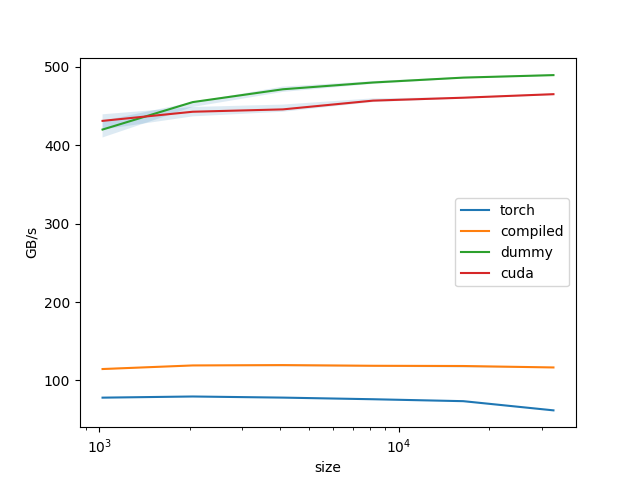
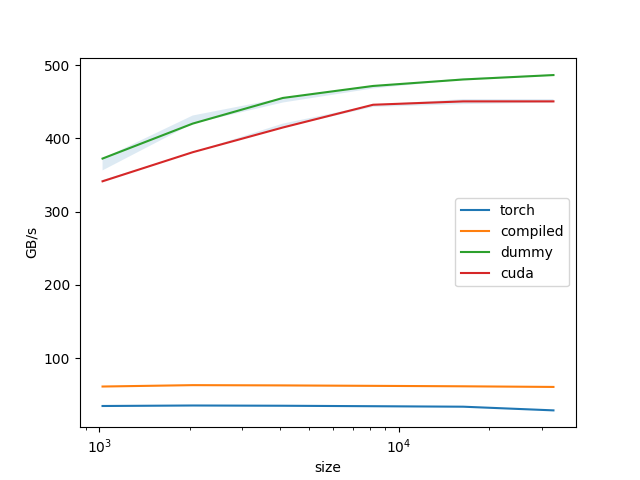
supports half

diff --git a/test/play.py b/test/play.py
@@ -7,7 +7,7 @@ torch.set_grad_enabled(False)
 
 
 def causal_dw_conv1d_ref(input, kernel):
-    # input = input.float()
+    input = input.float()
     input_t = input.moveaxis(-1, -2)
     output = F.conv1d(F.pad(input_t, (3, 0)), kernel.T[:, None, :], groups=channels)
     output_t = output.moveaxis(-1, -2)
@@ -21,7 +21,7 @@ batch = 4
 length = 2048
 channels = 512
 
-input = torch.rand(batch, length, channels, device='cuda')
+input = torch.rand(batch, length, channels, device='cuda', dtype=torch.half)
 kernel = torch.rand(batch, channels, device='cuda')
 
 output = causal_dw_conv1d(input, kernel)
@@ -46,7 +46,7 @@ print((output - output_ref).abs().max())
 
 
 def benchmark(size, provider):
-    input = torch.rand((batch, size, channels), device='cuda')
+    input = torch.rand((batch, size, channels), device='cuda', dtype=torch.half)
     kernel = torch.rand((4, channels), device='cuda')
     
     quantiles = [0.5, 0.2, 0.8]
